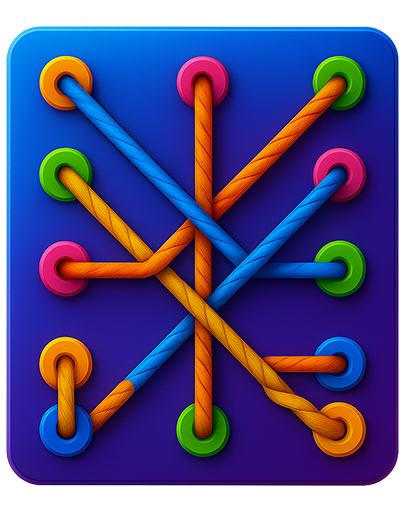
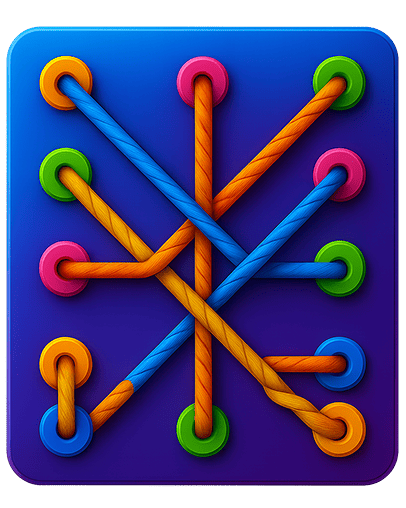
fix comments + optimized images

Changed region(s): [[0.0, 0.4724, 0.0296, 0.5315], [0.4729, 0.7972, 0.5025, 0.8268]]

diff --git a/src/css/hero.css b/src/css/hero.css
@@ -3,7 +3,6 @@
   flex-direction: column;
   justify-content: center;
   align-items: center;
-  margin-top: 51px;
 }
 
 .hero-title {
@@ -12,7 +11,7 @@
   font-size: 36px;
   text-align: center;
   color: #ffcf00;
-  text-shadow: 2px 4px 15px 0 rgba(0, 0, 0, 0.25);
+  text-shadow: 2px 4px 15px rgba(0, 0, 0, 0.25);
   margin-bottom: 16px;
 }
 
@@ -39,21 +38,18 @@
   justify-content: center;
   align-items: center;
   gap: 15px;
-  padding: 16px 32px;
+  padding: 15.5px 42.5px;
 
-  box-shadow: 2px 4px 15px 0 rgba(0, 0, 0, 0.25);
+  box-shadow: 2px 4px 15px rgba(0, 0, 0, 0.25);
   background-color: #126d26;
   border-radius: 8px;
+  font-weight: 500;
+  font-size: 16px;
+  color: #fff;
 }
 
 .hero-google-icon {
   width: 24px;
-}
-
-.hero-google-text {
-  font-weight: 500;
-  font-size: 16px;
-  color: #fff;
 }
 
 @media only screen and (min-width: 1200px) {
@@ -61,7 +57,6 @@
     flex-direction: row-reverse;
     justify-content: flex-start;
     align-items: stretch;
-    margin-top: 133px;
     gap: 170px;
   }
 
@@ -97,14 +92,10 @@
   }
 
   .hero-button {
-    position: relative;
-    right: 36px;
+    margin-right: 36px;
     gap: 16px;
     border-radius: 12px;
-    padding: 16px;
-  }
-
-  .hero-google-text {
+    padding: 10px 15.5px;
     font-size: 24px;
   }
 }

diff --git a/src/css/header.css b/src/css/header.css
@@ -1,26 +1,31 @@
 .header {
-  position: fixed;
+  position: sticky;
+  top: 1px;
+  z-index: 101;
   display: flex;
   justify-content: center;
-  top: 1px;
-  left: 0;
-  z-index: 101;
-  width: 100%;
+  align-items: center;
   padding: 0 16px;
+  width: 100%;
+  box-sizing: border-box;
 }
 
 .header-container {
+  width: 100%;
+  max-width: 375px;
+  height: 50px;
   display: flex;
   justify-content: space-between;
   align-items: center;
+
   padding: 15px 16px;
   border-radius: 0 0 8px 8px;
   border: 1px solid rgba(255, 255, 255, 0.3);
   backdrop-filter: blur(30px);
-  box-shadow: 2px 4px 10px 0 rgba(0, 0, 0, 0.1);
+  box-shadow: 2px 4px 10px rgba(0, 0, 0, 0.1);
   background-color: rgba(37, 92, 240, 0.5);
-  height: 50px;
-  width: 100%;
+
+  box-sizing: border-box;
 }
 
 .header-burger-button {
@@ -39,6 +44,9 @@
 }
 
 @media only screen and (min-width: 1200px) {
+  .header {
+    padding: 0 36px;
+  }
   .header-logo {
     width: 70px;
   }
@@ -47,6 +55,7 @@
     padding: 14px 32px;
     font-size: 16px;
     font-weight: 500;
+    max-width: 1200px;
   }
   .header-navigation {
     display: block;

diff --git a/src/css/gameDescription.css b/src/css/gameDescription.css
@@ -1,0 +1,29 @@
+.gamedescr-title {
+  font-family: 'Nunito', sans-serif;
+  font-weight: 700;
+  font-size: 24px;
+  text-align: center;
+  margin-bottom: 16px;
+  color: #d9f3fd;
+}
+
+.gamedescr-image {
+  width: 288px;
+  position: relative;
+  box-shadow: 2px 4px 15px 0 rgba(0, 0, 0, 0.25);
+  margin-top: -132px;
+}
+
+.gamedescr-image-border {
+  border-radius: 9px;
+}
+.gamedescr-image:first-child {
+  margin-top: 0;
+}
+
+.gamedescr-images-container {
+  display: flex;
+  flex-direction: column;
+  align-items: center;
+  margin-bottom: 16px;
+}
